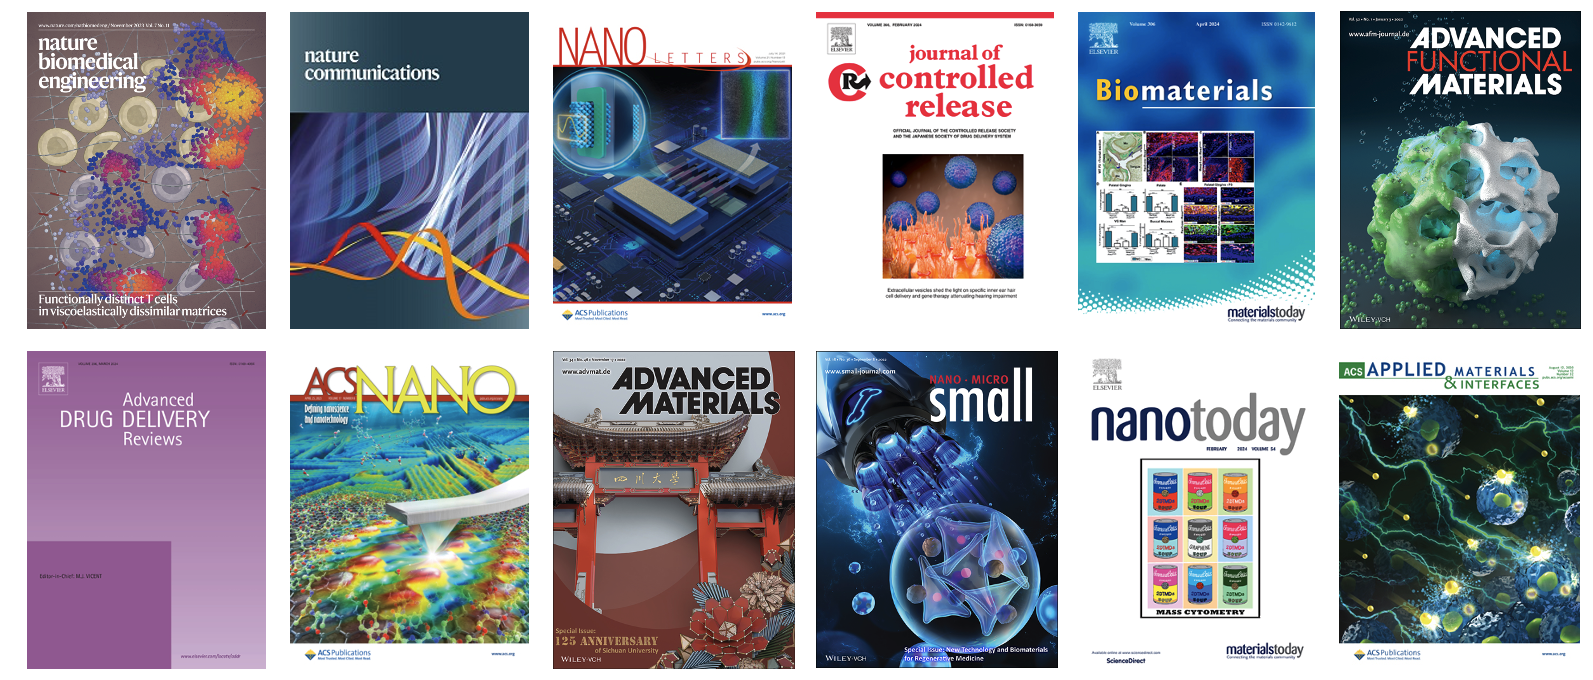
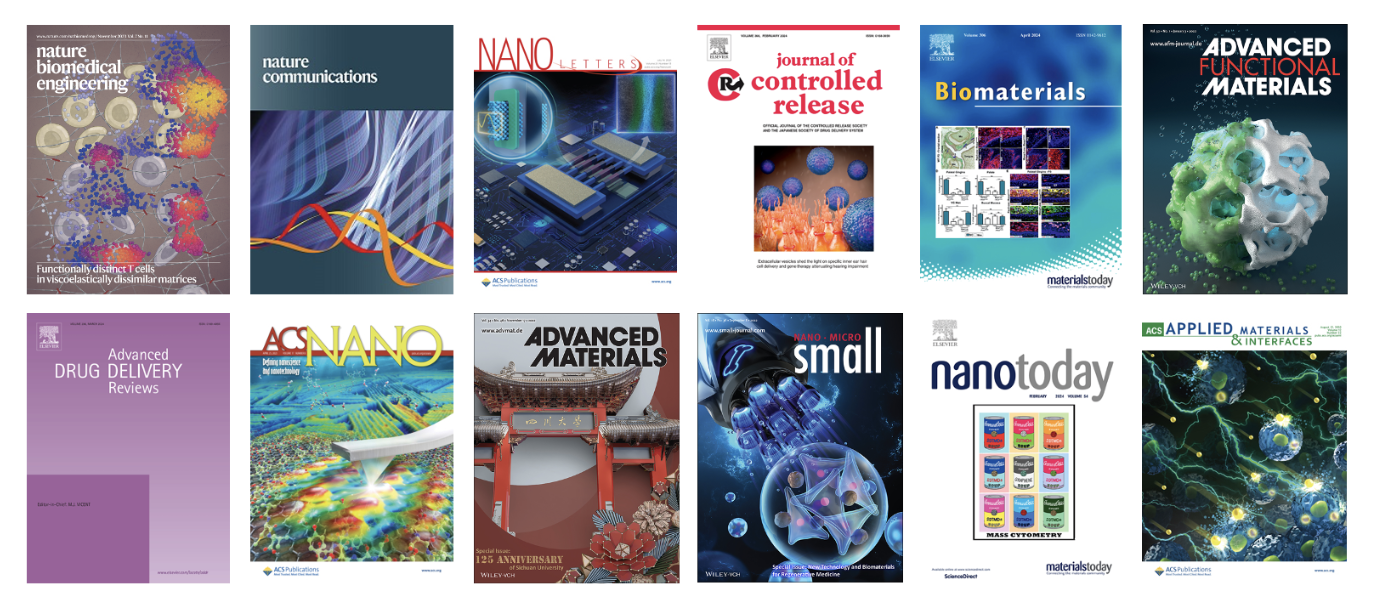
b

diff --git a/_pages/research.md b/_pages/research.md
@@ -16,7 +16,7 @@ layout: single
 
 
 <div class="center">
-  <img src="images/500x300.png" alt="Centered Image">
+  <img src="images/journals.png" alt="Centered Image">
 </div>
 
 ---
